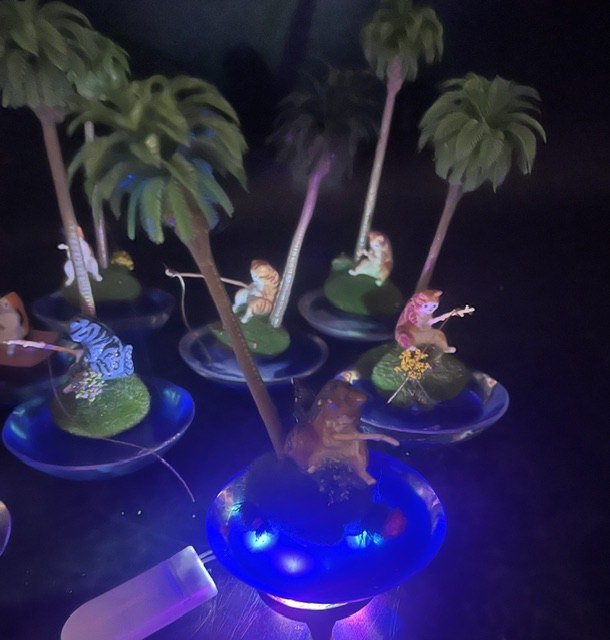
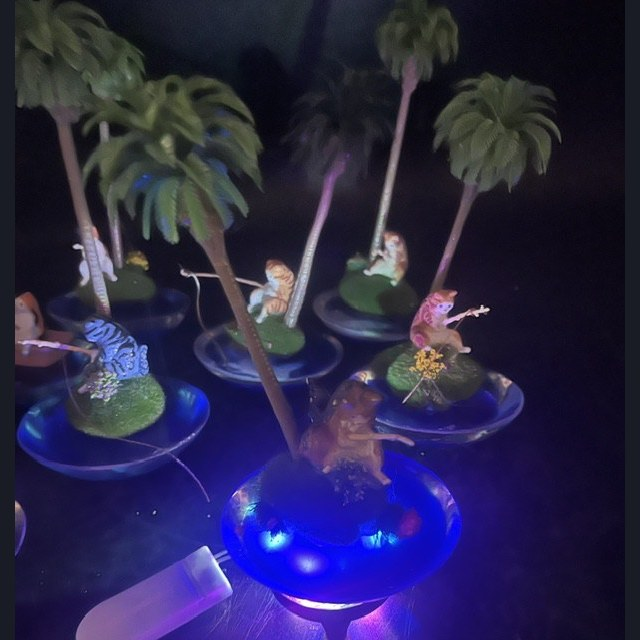
Ajout Terrarium Pokéball Pikachu (29€) + recadrage carré du Chat sur îlot
- Nouveau produit id=16 : Terrarium Pokéball Pikachu lumineux LED
- Chat sur îlot : photo lumineuse en principale + recadrage carré (letterbox)
- Photos Pokéball recadrées carré (aucun modèle coupé)

diff --git a/boutique.html b/boutique.html
@@ -366,8 +366,8 @@ const products = [
     price: 12,
     tag: "Nouveau",
     category: "accessoire",
-    img: "img/chats-resine-led-1.jpg",
-    imgs: ["img/chats-resine-led-1.jpg", "img/chats-resine-led-2.jpg"],
+    img: "img/chats-resine-led-2.jpg",
+    imgs: ["img/chats-resine-led-2.jpg", "img/chats-resine-led-1.jpg"],
     tags: ["Chat", "Résine", "LED"],
     desc: "Petit îlot décoratif en résine de 9 cm de diamètre : figurine de chat, palmier miniature, mousse et socle lumineux à LED. Modèles de chats variés. Idéal sur un bureau ou une étagère. Livraison dès 4,99 € ou remise en main propre à Saint-Genis-Laval."
   },
@@ -396,6 +396,19 @@ const products = [
     imgs: ["img/micro-paysage-13cm-1.jpg"],
     tags: ["Zen", "Koï", "Jardin japonais"],
     desc: "Micro paysage zen artisanal dans un plateau en grès de 13 cm de diamètre : bassin à carpes koï en résine bleue, mousse naturelle et fleurs colorées. Plusieurs modèles disponibles (portail torii et bouddha, bouddha rieur, pêcheur japonais). Pièce faite main en résine et grès. Livraison dès 6,49 € ou remise en main propre à Saint-Genis-Laval."
+  },
+  {
+    id: 16,
+    name: "Terrarium Pokéball Pikachu lumineux",
+    species: "Composition",
+    age: "13 cm de diamètre · Dôme transparent · Éclairage LED",
+    price: 29,
+    tag: "Nouveau",
+    category: "composition",
+    img: "img/pokeball-pikachu-1.jpg",
+    imgs: ["img/pokeball-pikachu-1.jpg", "img/pokeball-pikachu-2.jpg", "img/pokeball-pikachu-3.jpg"],
+    tags: ["Pokémon", "Pikachu", "LED"],
+    desc: "Terrarium décoratif en forme de Pokéball avec dôme transparent : figurine Pikachu, arbre fleuri, mousse naturelle et petit décor miniature. Éclairage LED intégré pour une ambiance lumineuse. 13 cm de diamètre. Pièce unique faite main. Livraison dès 6,49 € ou remise en main propre à Saint-Genis-Laval."
   }
 ];
 
